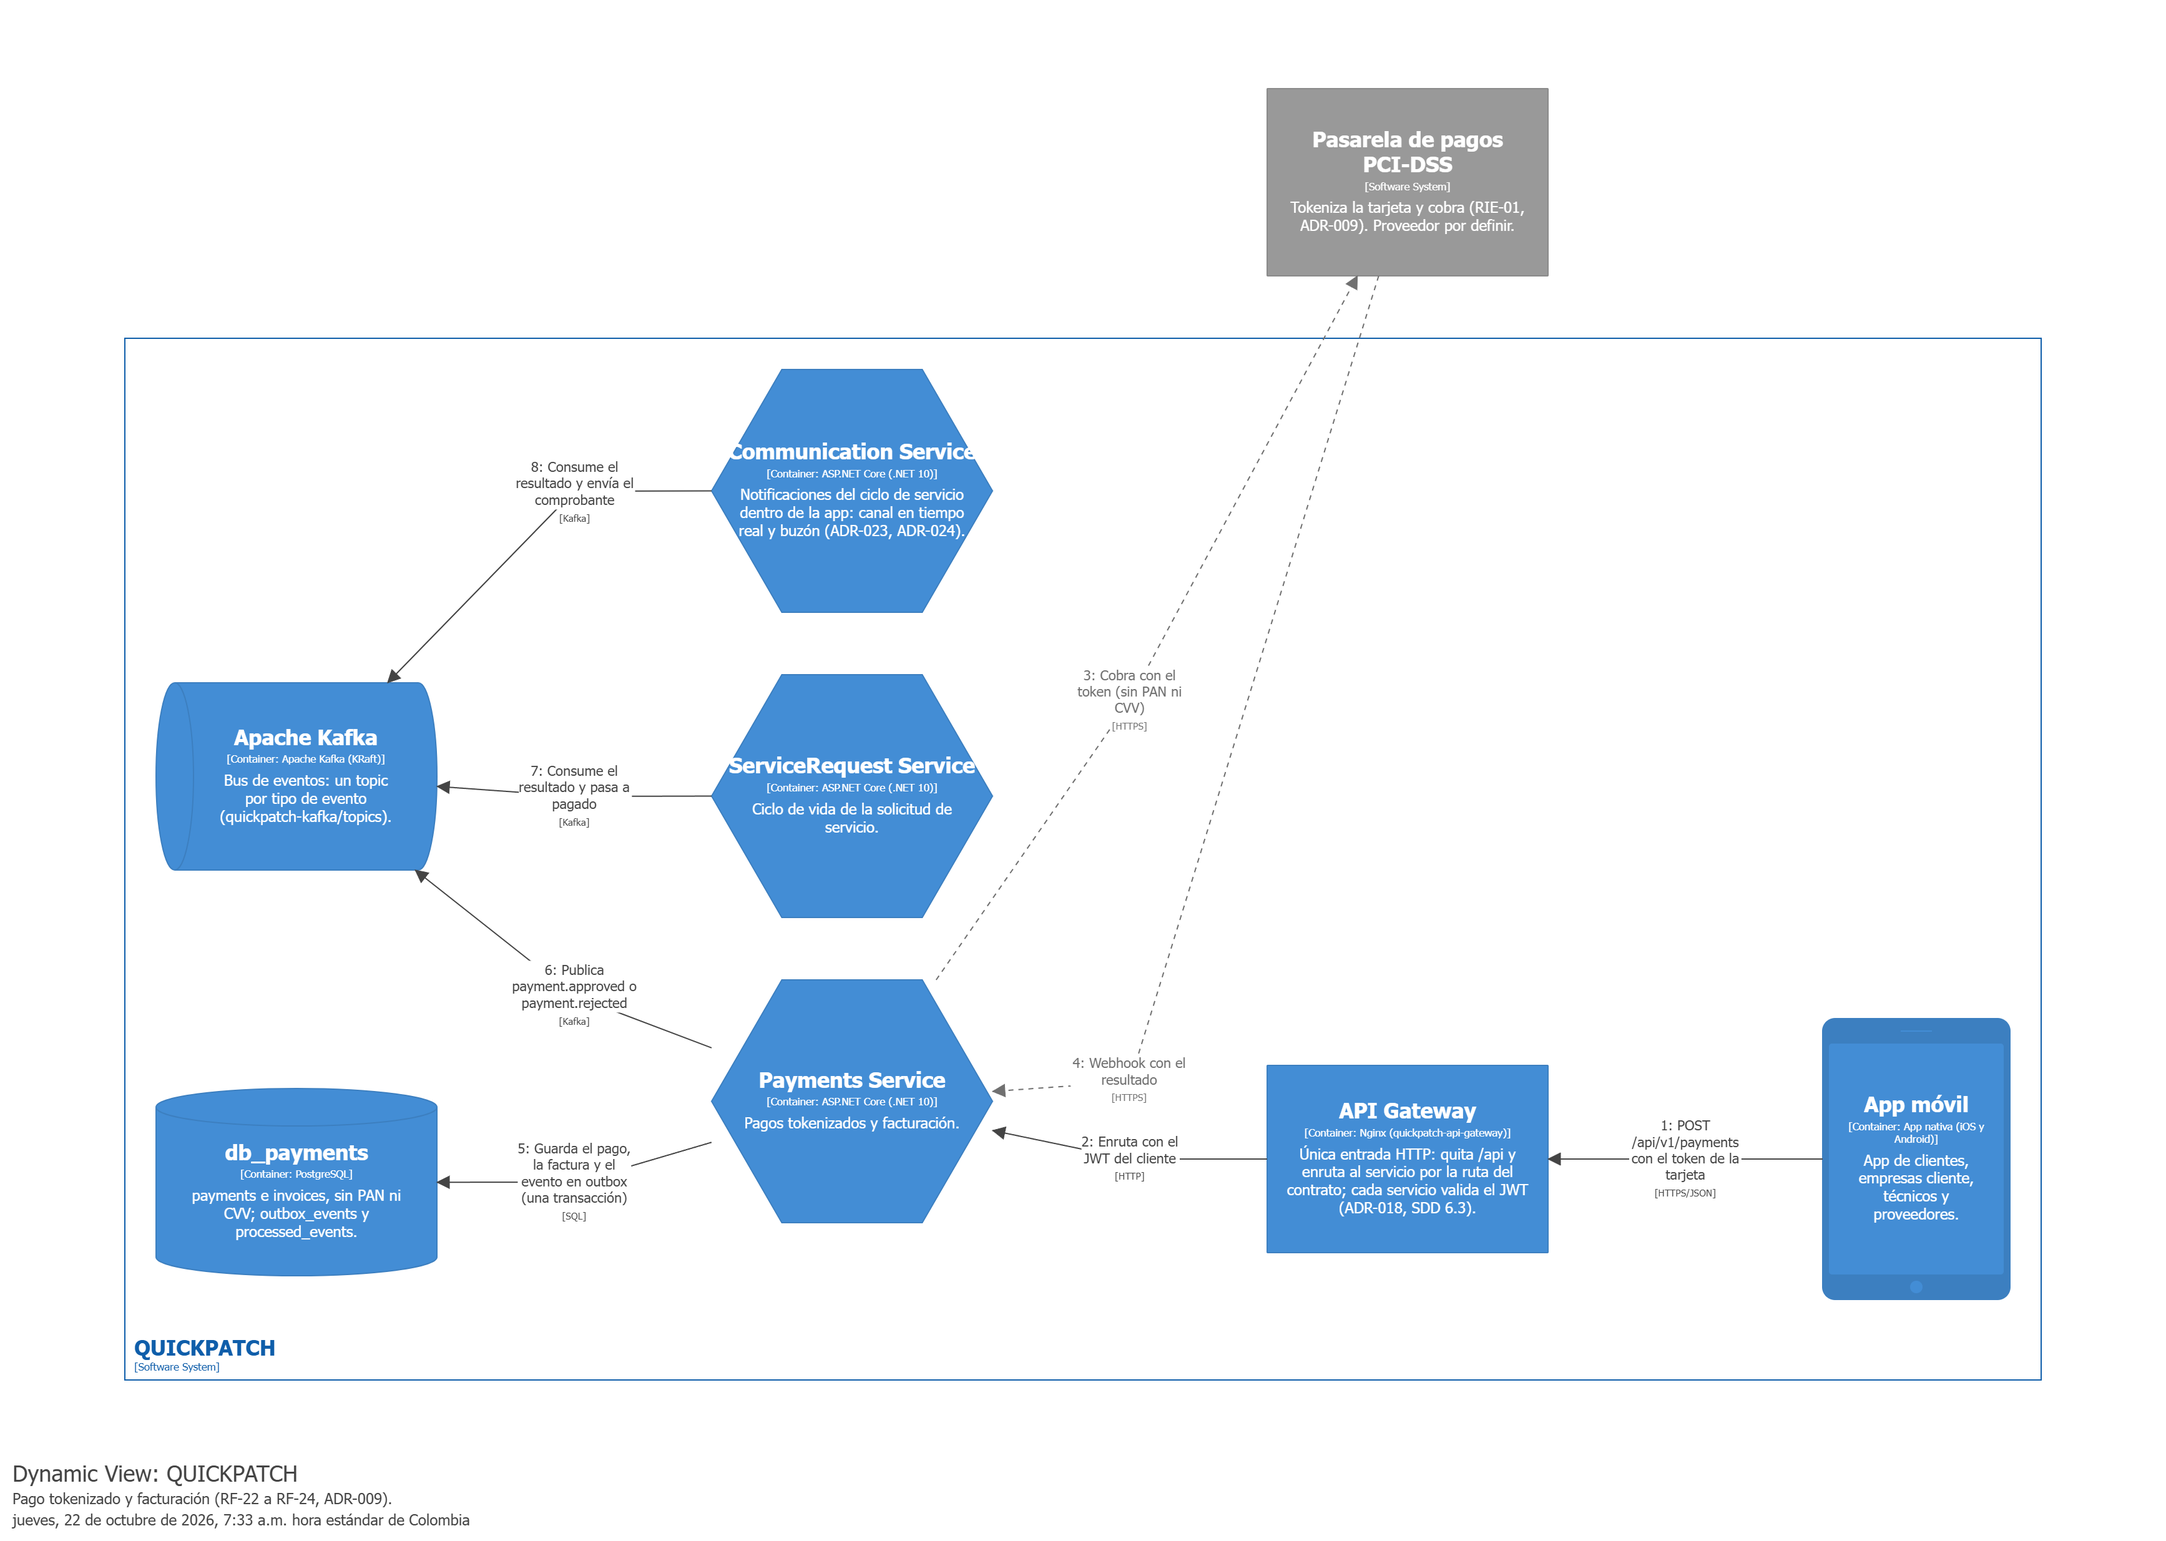
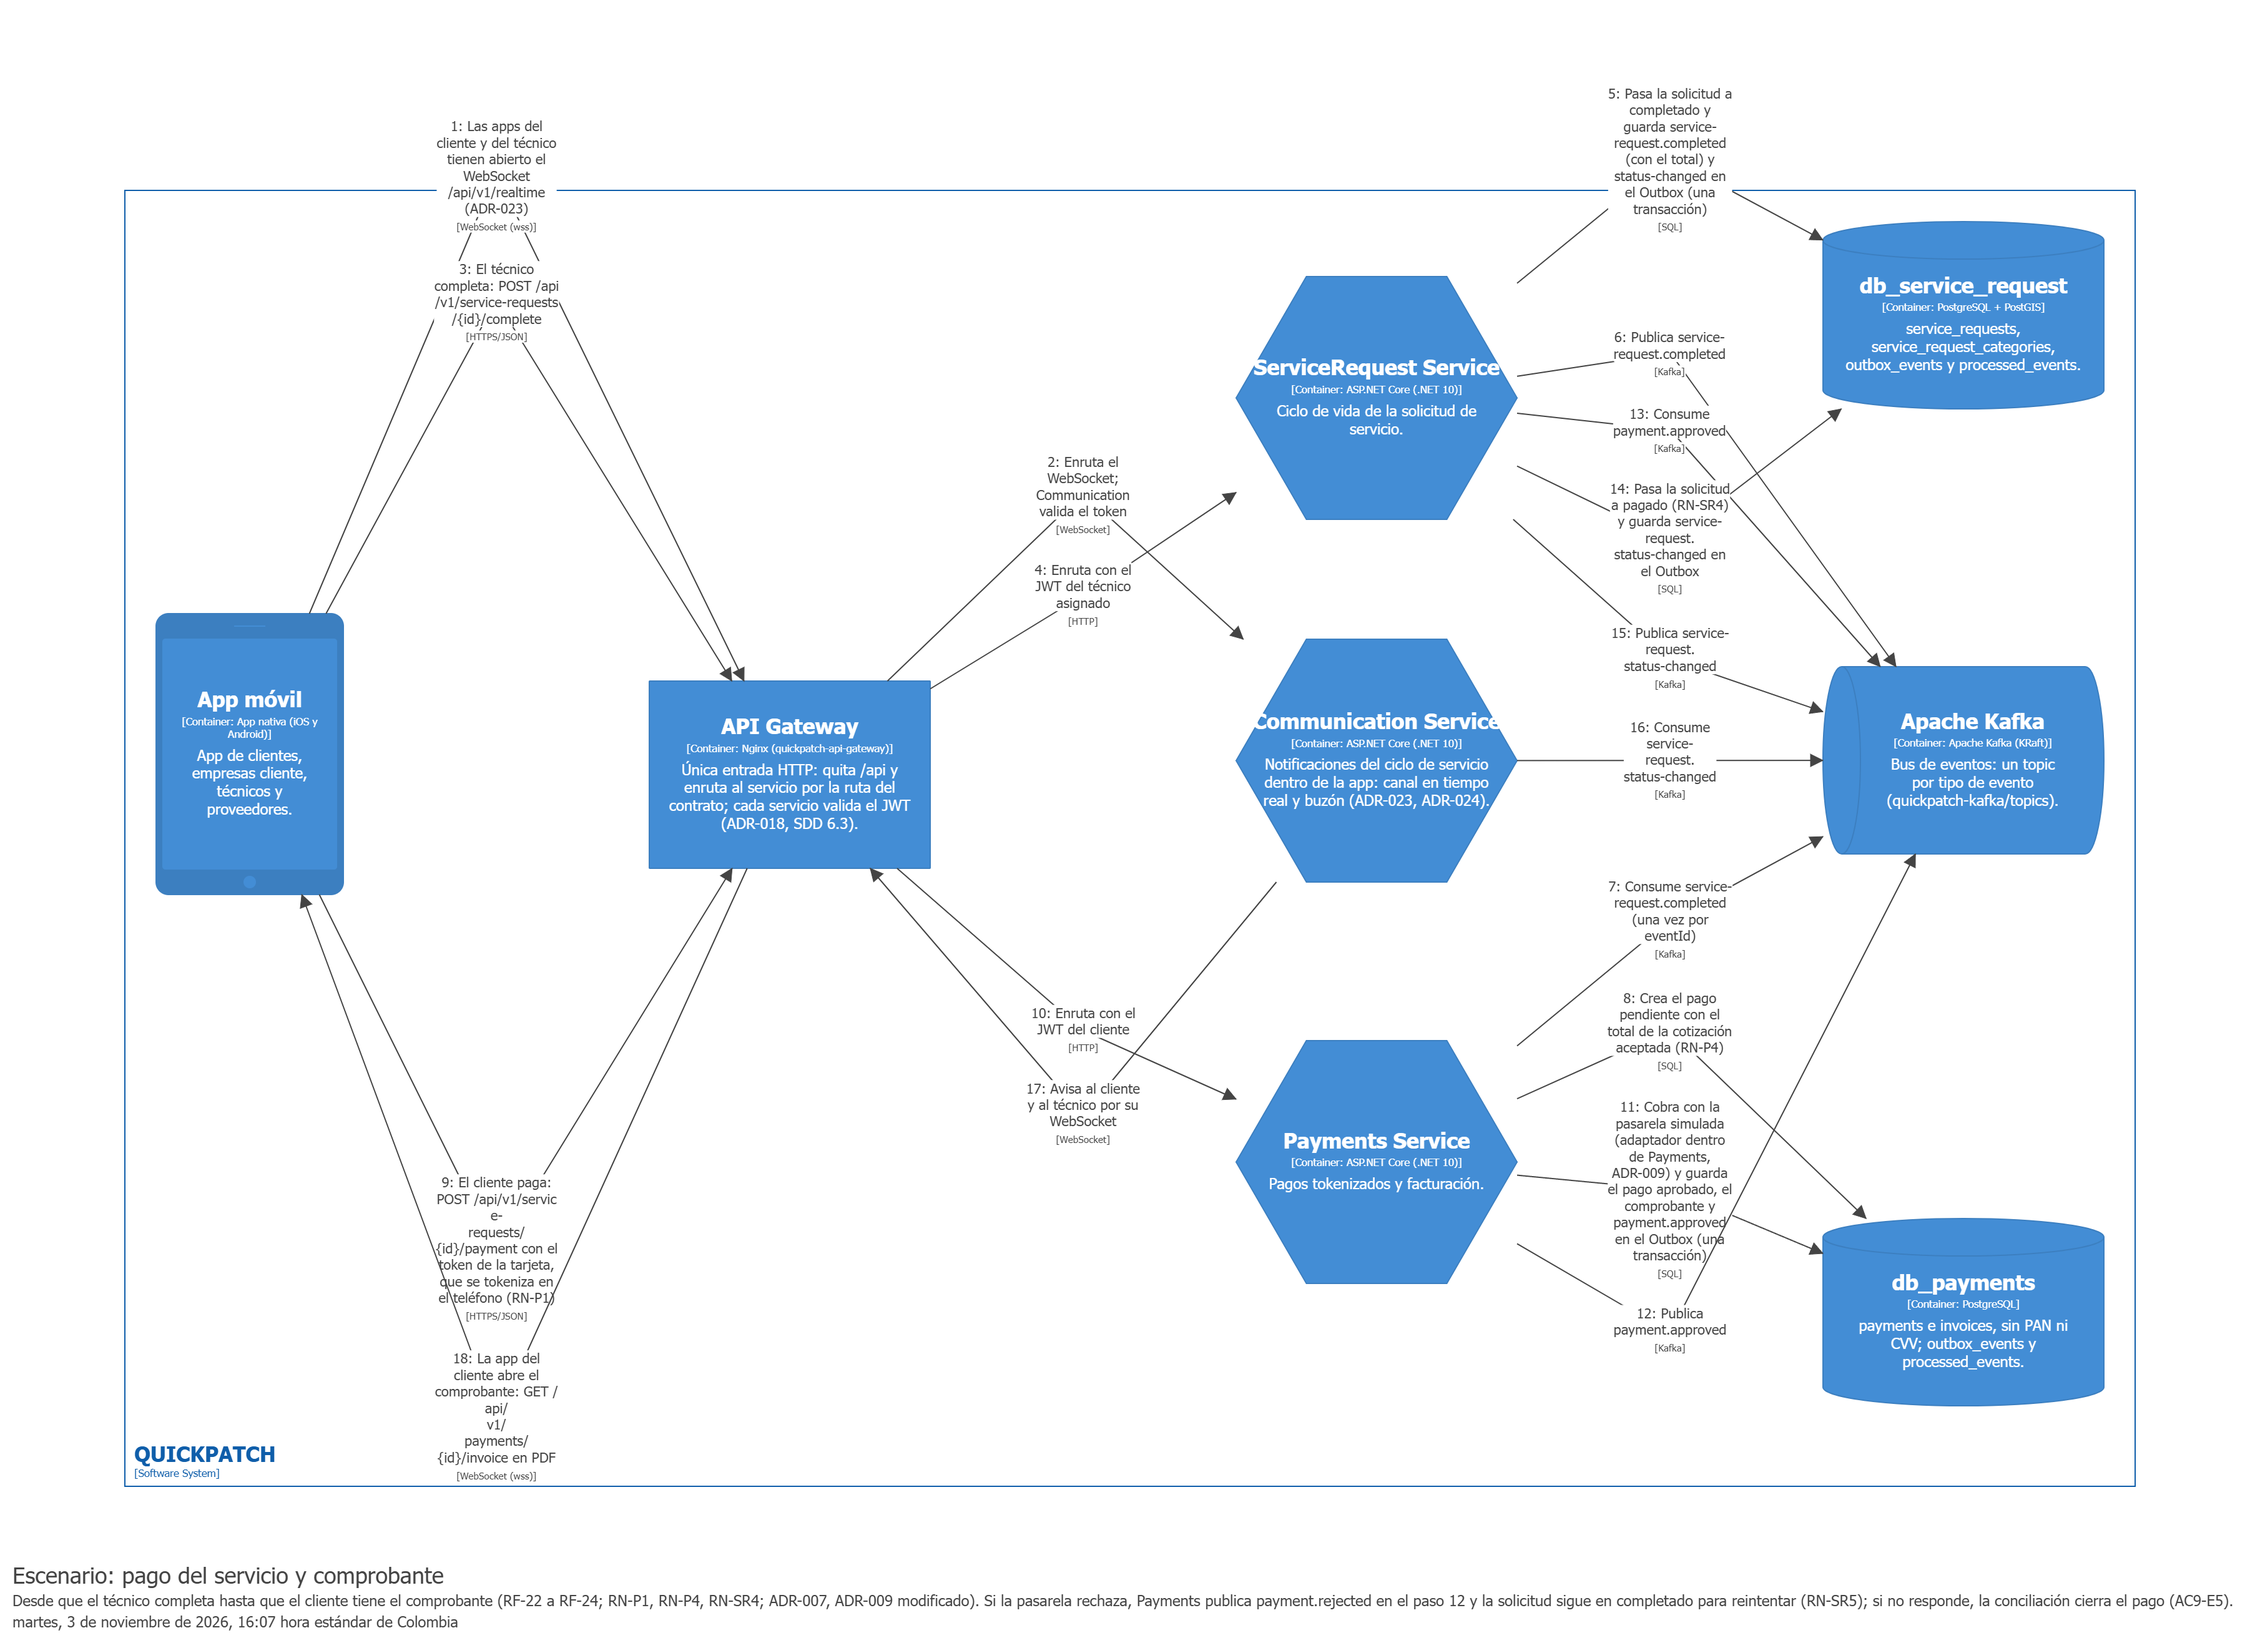
docs(c4): escenarios dinamicos de cotizacion, pago y cancelacion con pasos numerados (SCRUM-589)
Vistas C4-05-Dinamico-Cotizacion y -Cancelacion nuevas, y la de pago
rehecha como esta implementada (ruta real, pasarela simulada dentro de
Payments y aviso por service-request.status-changed). Cada una con el
escenario en el titulo, el gateway, los eventos por nombre y el aviso a la
app, desde los flujos de SCRUM-591. SDD figuras 22c, 24 y 28b; SAD 2.47
remite a los escenarios de la seccion 8 del SDD.

diff --git a/docs/architecture/SDD.md b/docs/architecture/SDD.md
@@ -87,11 +87,13 @@ Los diagramas que no son de C4 (capas, modelo de dominio, secuencias UML, estruc
 | `C4-07-Codigo-AislamientoTenant` | Code (PlantUML) | 20 |
 | `C4-05-Dinamico-CrearSolicitud` | Dynamic | 22 |
 | `C4-05-Dinamico-AsignacionTecnico` | Dynamic | 22b |
+| `C4-05-Dinamico-Cotizacion` | Dynamic | 22c |
 | `C4-05-Dinamico-Pago` | Dynamic | 24 |
 | `C4-05-Dinamico-InicioSesion` | Dynamic | 25 |
 | `C4-05-Dinamico-ReplicaCategorias` | Dynamic | 26 |
 | `C4-05-Dinamico-Calificacion` | Dynamic | 27 |
 | `C4-05-Dinamico-GestionTenants` | Dynamic | 28 |
+| `C4-05-Dinamico-Cancelacion` | Dynamic | 28b |
 | `C4-06-Despliegue-Produccion` | Deployment | 30 |
 | `C4-06-Despliegue-QA` | Deployment | 31 |
 
@@ -888,6 +890,12 @@ El técnico ve sus ofertas pendientes con la localidad y la distancia, pero no l
 
 **Figura 22b. Escenario: asignación de técnico a una solicitud (C4 · Dynamic). Vista `C4-05-Dinamico-AsignacionTecnico`.**
 
+**Cotización.** Con el técnico asignado, la solicitud pasa por la cotización antes de iniciar (RF-34, RF-35). El técnico emite hasta tres cotizaciones; cada una vence a las 24 horas, y al rechazar la tercera la solicitud se cancela (RN-Q2, RN-Q6 a RN-Q8). Cada paso guarda el cambio y sus eventos en una transacción (ADR-007), y Communication avisa al otro participante por el canal en tiempo real y el buzón.
+
+![Cotización del servicio (C4 · Dynamic)](diagrams/c4/C4-05-Dinamico-Cotizacion.png)
+
+**Figura 22c. Escenario: cotización del servicio (C4 · Dynamic; SCRUM-589, desde los flujos de SCRUM-591). Vista `C4-05-Dinamico-Cotizacion`.**
+
 ## 8.4 Secuencia de pago y facturación
 
 Este flujo describe el cierre operativo del servicio y el cobro bajo el estándar PCI-DSS y el modelo Merchant of Record (RF-15, RF-22, RF-24, D4, D7, K2, ADR-009, AC3-E1, AC6-E1, AC9-E1, AC9-E5):
@@ -951,11 +959,11 @@ sequenceDiagram
 
 ---
 
-**Vista C4.** El flujo de pago a nivel de contenedores. Payments está implementado con la pasarela simulada; la pasarela certificada del diagrama sigue planeada.
+**Vista C4.** El escenario de pago a nivel de contenedores, como está implementado: el pago pendiente lo crea `service-request.completed`, el cobro lo hace la pasarela simulada dentro de Payments (ADR-009 modificado) y la solicitud pasa a `pagado` con `payment.approved`. La pasarela certificada y su webhook siguen planeados (sección 6.10).
 
 ![Pago tokenizado y facturación (C4 · Dynamic)](diagrams/c4/C4-05-Dinamico-Pago.png)
 
-**Figura 24. Pago tokenizado y facturación (C4 · Dynamic; diseño). Vista `C4-05-Dinamico-Pago`.**
+**Figura 24. Escenario: pago del servicio y comprobante (C4 · Dynamic; SCRUM-589). Vista `C4-05-Dinamico-Pago`.**
 
 ## 8.5 Otros flujos críticos
 
@@ -984,6 +992,14 @@ Cada diagrama dinámico numera la colaboración entre contenedores para un flujo
 ![Gestión de tenants (C4 · Dynamic)](diagrams/c4/C4-05-Dinamico-GestionTenants.png)
 
 **Figura 28. Gestión de tenants por el admin de plataforma (C4 · Dynamic). Vista `C4-05-Dinamico-GestionTenants`.**
+
+**Cancelación.** El cliente dueño (o el `admin_tenant` desde el panel) cancela una solicitud antes de `en_progreso` (RF-36). Matching retira la oferta pendiente y libera al técnico; Communication avisa con `service-request.status-changed`, porque no consume `service-request.cancelled` (matriz 8.6).
+
+![Cancelación de una solicitud (C4 · Dynamic)](diagrams/c4/C4-05-Dinamico-Cancelacion.png)
+
+**Figura 28b. Escenario: cancelación de una solicitud (C4 · Dynamic; SCRUM-589). Vista `C4-05-Dinamico-Cancelacion`.**
+
+Los diagramas de secuencia de detalle de la cotización, el pago y la cancelación, con sus alternativas (rechazo, vencimiento, pasarela sin respuesta) y los errores de cada contrato, están en `docs/architecture/DIAGRAMS_SCRUM591_DYNAMIC_FLOWS.md` (SCRUM-591).
 
 ## 8.6 Productores y consumidores Kafka
 
@@ -2216,6 +2232,7 @@ La V4 lleva el documento al Sprint 5 y responde a las observaciones del profesor
 | Componentes de Identity, Catalog, ServiceRequest y Payments con los nombres del código | 6.4, 6.6, 6.7 y 6.10 (figuras 10, 12, 13 y 17) | SCRUM-581 y SCRUM-582 |
 | Escenario de asignación del técnico con pasos numerados y eventos por nombre | 8 (figura 22b) | SCRUM-590 |
 | Componentes del Sprint 5, dinámica de la calificación y despliegue real | 6, 8 (figura 27) y 9 | SCRUM-549 y SCRUM-550 |
+| Escenarios dinámicos con título y pasos numerados para la cotización, el pago y la cancelación, desde los flujos de SCRUM-591 | 8.3, 8.4 y 8.5 (figuras 22c, 24 y 28b) | SCRUM-589 |
 | Revisión integral del Sprint 5: sistemas externos según ADR-024 (sección 4), Ranking en QA, matriz 8.6 y grupos 8.7 con los eventos y consumidores reales, perfil, `tenant.status-changed` y su réplica en Identity y ServiceRequest, y calificación e historial en la app | 4, 5, 6.2, 6.4, 6.7, 6.9, 8.6, 8.7, 9 y 12 (figuras 3, 9, 10, 13, 16, 27 y 31) | SCRUM-548 |
 | Componentes reales de la calificación: ServiceRequest, Ranking e Identity | 6.4, 6.7 y 6.9 (figuras 10, 13 y 16) | SCRUM-584 |
 | Pagos recibidos de Payments con sus clases reales (`ReceivedPaymentEndpoints`, `ReceivedPaymentsHandler`, `TechnicianRegisteredConsumer` y `TechnicianRegisteredHandler`) y los consumidores reales de Communication, sin `payment.*` | 6.10 (figura 17), figura 18 y figura 3 | SCRUM-584 |

diff --git a/docs/architecture/SAD.md b/docs/architecture/SAD.md
@@ -1,4 +1,4 @@
-# Documento de Arquitectura de Software (SAD) V2.46 — QUICKPATCH
+# Documento de Arquitectura de Software (SAD) V2.47 — QUICKPATCH
 
 ---
 
@@ -962,7 +962,7 @@ Cada servicio es responsable de un dominio de negocio, con su propio ciclo de de
 
 Producción iguala a QA antes de promover el MVP (SCRUM-518 a SCRUM-521): faltan Payments, Communication, Nominatim y los topics de Kafka del incremento (Documento de Infraestructura, sección 4.3).
 
-El interior de cada servicio (capas, componentes con los nombres reales de las clases y sus relaciones con la base, Kafka y el gateway) está en el SDD, sección 6 (diagramas C4 de componentes, figuras 10 a 18; SCRUM-580).
+El interior de cada servicio (capas, componentes con los nombres reales de las clases y sus relaciones con la base, Kafka y el gateway) está en el SDD, sección 6 (diagramas C4 de componentes, figuras 10 a 18; SCRUM-580). Cómo colaboran en cada escenario, con el título del escenario, los pasos numerados, el gateway, los eventos por nombre y el aviso a la app, está en el SDD, sección 8: asignación de técnico (figura 22b), cotización (22c), pago (24), calificación (27) y cancelación (28b) (SCRUM-589).
 
 #### 4.2.3 Persistencia
 
@@ -1296,5 +1296,6 @@ Consistente con D5 y ADR-005 (shared-schema con `tenant_id` + Row-Level Security
 |2.44|27 oct 2026|AC4 se nombra **Capacidad de interacción**, como la característica de ISO/IEC 25010:2023 (SCRUM-568, corrección del profesor en la revisión del Sprint 4); los escenarios se miden con pruebas con usuarios. Sin cambios en los escenarios.|
 |2.45|27 oct 2026|Sección 5.1 con las vistas de despliegue por ambiente (figuras 5.1 y 5.2, SCRUM-573 y SCRUM-576): cada ambiente con sus nodos, su gateway y sus datos, y VM1 como infraestructura auxiliar. VM4 con Redis como coordinación temporal y Nominatim; Ranking implementado sin desplegar.|
 |2.46|29 oct 2026|Sección 7.4: el pago va antes de la calificación (`DELIVERED` → `PAID` → `EVALUATED`), como el SRS (RF-12), el SDD (escenario 7) y el DD (RN-R3). Cierra la contradicción P2 del SRS (sección 7.4.2), señalada en la línea base del SRS (SCRUM-535).|
+|2.47|3 nov 2026|Sección 4.2.2: remite a los escenarios dinámicos del SDD, sección 8, con título y pasos numerados: asignación, cotización, pago, calificación y cancelación (SCRUM-589).|
 |2.27|12 oct 2026|Dependencias externas frente a R5 (SCRUM-413 y SCRUM-405). Se acepta ADR-024: R5 no cambia; la geocodificación (RIE-02) corre con un Nominatim propio con el mapa de Bogotá en VM4 y VM5, usado por ServiceRequest cuando la solicitud llega sin coordenadas, y las notificaciones (RIE-03) del MVP se entregan dentro de la app (canal de ADR-023 y buzón en Communication). El diagrama de contexto (4.1) pasa el geocodificador adentro del sistema y retira el proveedor de correo y push, y la nota de sistemas externos lo explica. ADR-024 entra a la tabla 5.5 y a la matriz 6.1 como excepción a ADR-014.|
 |2.26|12 oct 2026|Canal de estado en tiempo real (SCRUM-412, primera entrega del SAD V4). Se acepta ADR-023: WebSocket desde las apps hasta Communication Service a través de VM1, con el aviso sin detalle y consulta cada 30 segundos como respaldo; se descartan push más REST (contradice R5), solo consulta, SSE y long polling. La sección 4.1 deja de tener la decisión abierta y el diagrama de contexto muestra HTTPS y WebSocket; RNF-06 (2.2) y su acción correctiva citan el ADR, aunque sigue sin cobertura hasta que se implemente; D2 suma ADR-023 en su traza. ADR-023 entra a la tabla de la sección 6 y a la matriz 6.1, y es el primer ADR que prioriza AC4.|

diff --git a/docs/architecture/diagrams/c4/README.md b/docs/architecture/diagrams/c4/README.md
@@ -4,7 +4,7 @@ Fuente única de los diagramas C4 del SDD (sección 2.2). En el repositorio vive
 
 | Archivo | Contenido |
 |---|---|
-| `quickpatch.dsl` | Modelo y vistas en Structurizr DSL: System Landscape, System Context, Container, 10 Component, 7 Dynamic y 2 Deployment (22 vistas) |
+| `quickpatch.dsl` | Modelo y vistas en Structurizr DSL: System Landscape, System Context, Container, 10 Component, 9 Dynamic y 2 Deployment (24 vistas) |
 | `C4-07-Codigo-OutboxIdempotencia.puml` | Nivel de código (UML de clases, PlantUML): Outbox e idempotencia de `service-request.created` |
 | `C4-07-Codigo-AislamientoTenant.puml` | Nivel de código (UML de clases, PlantUML): aislamiento entre tenants en Identity |
 
@@ -56,7 +56,9 @@ En el repositorio están en `docs/architecture/diagrams/c4/<clave>.png`, sin el 
 | `C4-07-Codigo-AislamientoTenant` | Code (PlantUML) | 7.2 |
 | `C4-05-Dinamico-CrearSolicitud` | Dynamic | 8.3 |
 | `C4-05-Dinamico-AsignacionTecnico` | Dynamic | 8.3.1 |
+| `C4-05-Dinamico-Cotizacion` | Dynamic | 8.3 |
 | `C4-05-Dinamico-Pago` | Dynamic | 8.4 |
+| `C4-05-Dinamico-Cancelacion` | Dynamic | 8.5 |
 | `C4-05-Dinamico-InicioSesion` | Dynamic | 8.5 |
 | `C4-05-Dinamico-ReplicaCategorias` | Dynamic | 8.5 |
 | `C4-05-Dinamico-Calificacion` | Dynamic | 8.5 |
